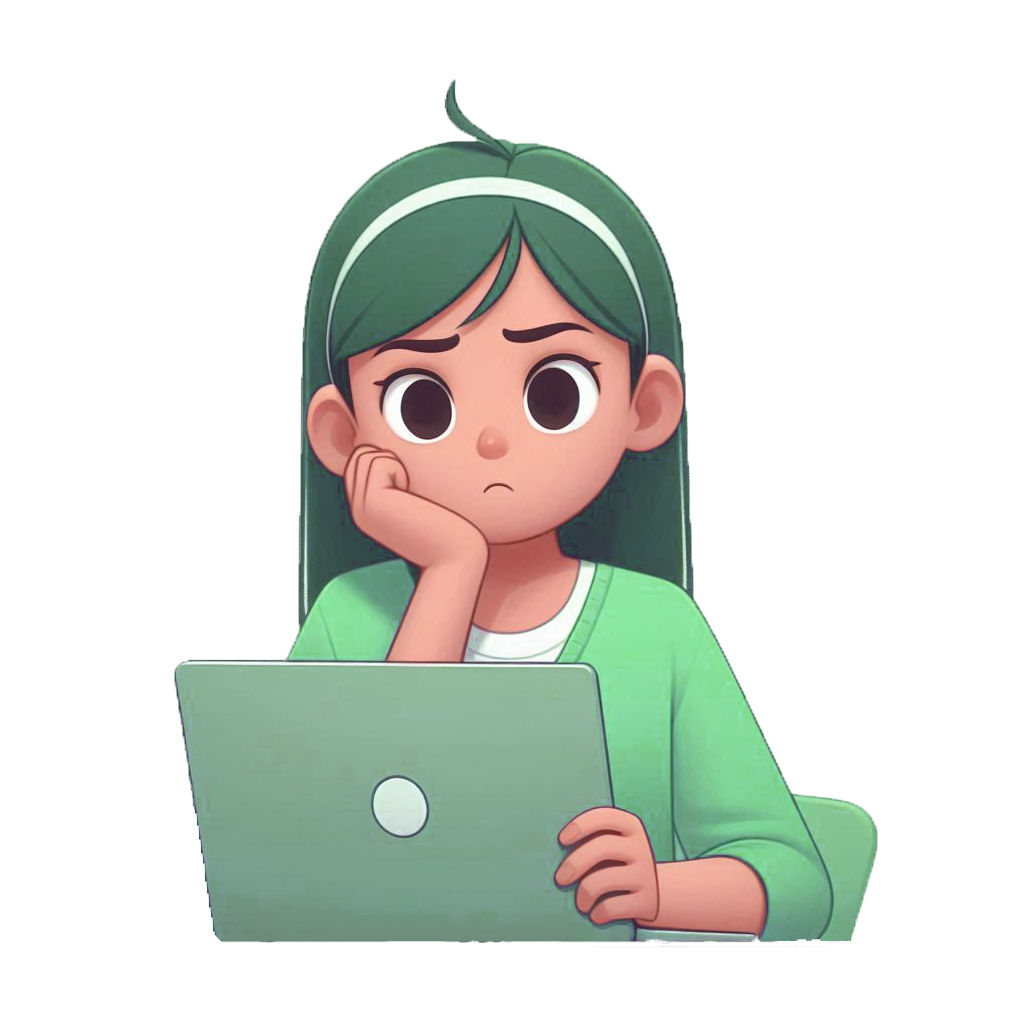
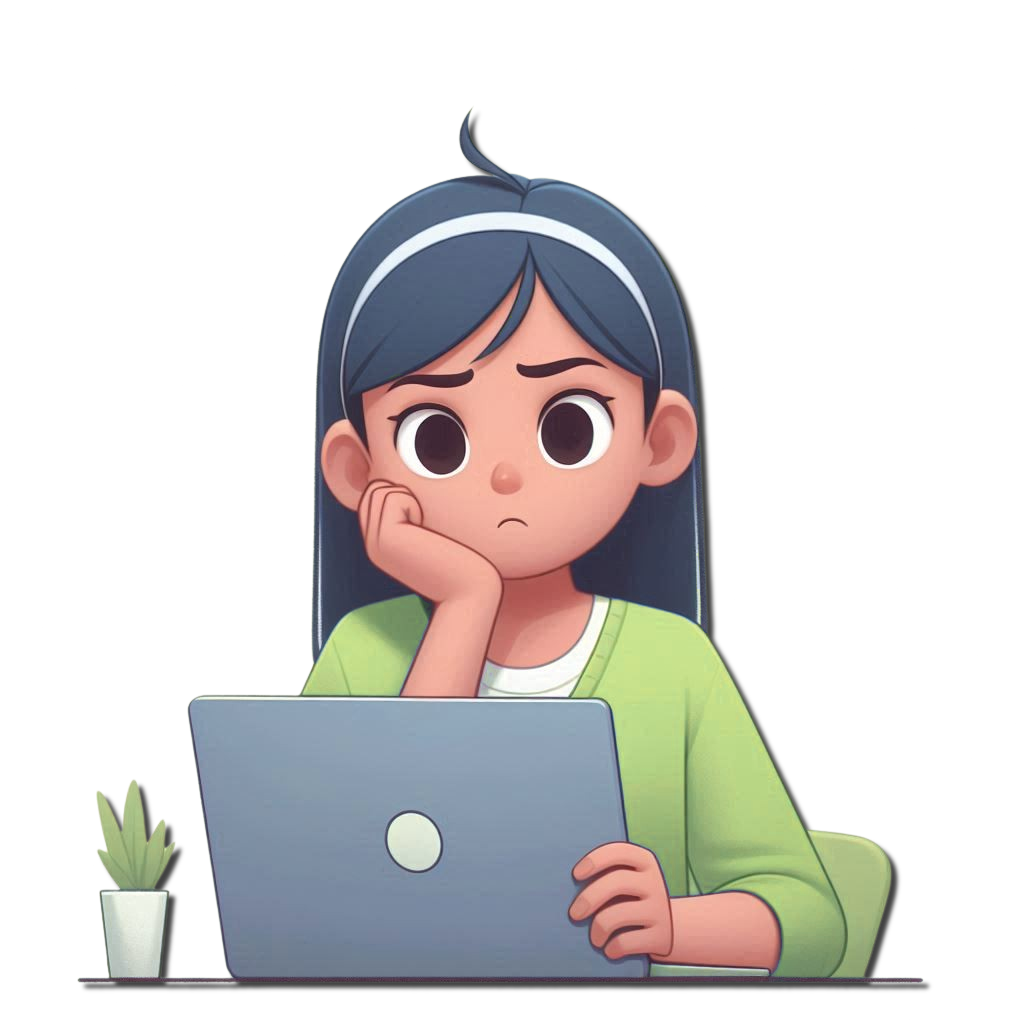
Page 403 & 404
- Implemented the 403 error page
- Updated text and layout of the 404/403 pages for a clearer message
- Reduced font size for the 404/403 error and increased the max-width of the image
- Updated the 404 mascot image and added the 403 mascot

diff --git a/src/web/routes/403/403.html b/src/web/routes/403/403.html
@@ -5,7 +5,7 @@
     <meta name="viewport" content="width=device-width, initial-scale=1.0">
     <title>Syncify</title>
     <link rel="stylesheet" href="../../static/css/default.css" type="text/css">
-    <link rel="stylesheet" href="./routes/404/404.css" type="text/css">
+    <link rel="stylesheet" href="./routes/403/403.css" type="text/css">
     <link rel='icon' href="/static/images/icon.png">
     <script src="../../static/js/default.js"></script>
     <script src='./routes/user/user.js'></script>
@@ -35,12 +35,12 @@
     </header>
     <div class="container">
         <div class="textError">
-          <h1>WHOOPS!</h1>
-          <p>The page you're looking for doesn't exist.<br> 
-            Go back and use our site as it should… on pages that do exist! 😉</p>
+          <h1>OOPS!</h1>
+          <p>You don't have permission to access this page. 🚫 <br> 
+            Go back and use our site as it should… in areas you're allowed to! 😉</p>
         </div>
         <div class="imageError">
-          <img src="./routes/404/images/mascotte.png" alt="">
+          <img src="./routes/403/images/mascotteNotAccess.png" alt="">
         </div>
     </div>
     <footer>

diff --git a/src/web/routes/403/route.js b/src/web/routes/403/route.js
@@ -1,8 +1,32 @@
+import Page403 from './403.html'
+import mustache from 'mustache';
 
-
+import Auth from '../../auth.js';
+import Utils from '../../utils.js';
 
 export default {
     async get (request, env, ctx) {
-        return new Response("Not Implemented");
+        const url = new URL(request.url);
+        const cookies = Utils.parseCookies(request.headers.get('cookie'));
+        
+        const token = cookies.get('user_access_token');
+        const payload = await Auth.verifyToken(token, env.JWT_SECRET_KEY);
+
+        let data = null;
+        if (payload != null){
+            const id = env.users.idFromString(payload.id);
+            const user = env.users.get(id);
+            data = await user.getUserData();
+        }
+
+        const html = mustache.render(Page403, { 
+            user : {
+                name : payload ? data.user.display_name : null, 
+                image : payload ? data.user.images[0].url : null, 
+                url: payload ? data.user.external_urls.spotify : null
+            },
+        });
+
+        return new Response(html, { headers: {'Content-Type': 'text/html'} });
     }
 }

diff --git a/src/web/routes/403/403.css b/src/web/routes/403/403.css
@@ -24,7 +24,7 @@
 }
 
 .textError h1 {
-    font-size: 80px;
+    font-size: 120px;
     color: #1DB954;
     margin: 0 0 10px;
 }
